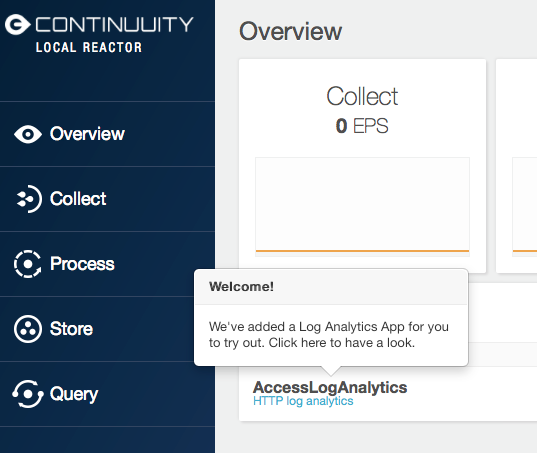
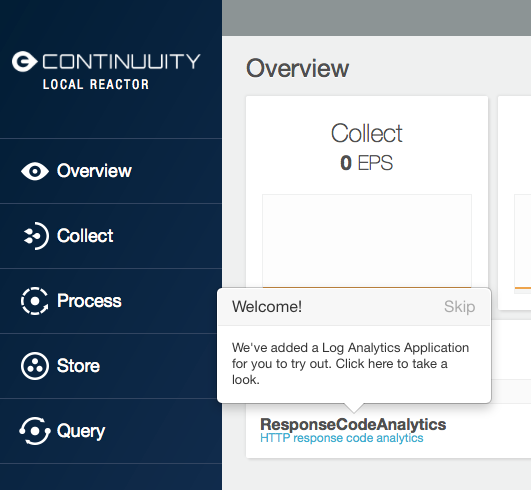
Updated graphic, removed extra /es, fixed names references in quickstart

diff --git a/docs/developer-guide/source/quickstart.rst b/docs/developer-guide/source/quickstart.rst
@@ -24,7 +24,7 @@ The example code for the *AccessLogApp* that we'll be using is located in ``/exa
 
 Step 1 : Installation and Startup
 ---------------------------------
-Download and unpack the SDK from `Continuuity.com <http://continuuity.com/download>`_.
+Download and unpack the SDK from `Continuuity.com </download>`_.
 
 Start the Reactor from a command line in the SDK directory::
 
@@ -47,12 +47,12 @@ When you first open the Dashboard, you'll be greeted with:
 .. image:: doc-assets/_images/quickstart/overview.png
    :width: 400px
 
-Click on the name of the application (**AccessLogAnalytics**) to view the running App. The App has each
+Click on the name of the application (**ResponseCodeAnalytics**) to view the running App. The App has each
 of the Reactor's components:
 
 	* Collect: the *logEventStream* Stream
 	* Process: the *LogAnalyticsFlow* Flow
-	* Store: the *statusCodesTable* Table
+	* Store: the *statusCodeTable* Table
 	* Query: the *StatusCodeProcedure* Procedure
 
 Notice that Collect and Store elements are named using "camel-case", 
@@ -92,7 +92,7 @@ We'll update the code, stop the App, redeploy it, restart its Flow and Procedure
 and inject additional events. We'll test our modifications to the Procedure to see new statistics.
 
 To build the example, we've included a `maven <http://maven.apache.org>`_ file. It's located in
-the App's source code directory (``/examples/LogAnalytics``). Run (from within the source
+the App's source code directory (``/examples/ResponseCodeAnalytics``). Run (from within the source
 code directory) the command::
 
 	mvn clean package
@@ -102,7 +102,7 @@ to build the .JAR file for deploying the application.
 (On Windows, `these instructions <http://maven.apache.org/guides/getting-started/windows-prerequisites.html>`__
 may help with problems using maven.)
 
-Open the source file (*AccessLogApp.java*) in your preferred editor, 
+Open the source file (*ResponseCodeAnalyticsApp.java*) in your preferred editor, 
 and make the following changes.
 
 After the line ``private OutputEmitter<Integer> output;``, insert this code::
@@ -123,9 +123,9 @@ After the line ``output.emit(Integer.parseInt(matcher.group(6)));``, insert::
 This will implement the emitter *clientIps* and send the client IP address to the
 downstream Flowlet.
 
-After the line ``statusCodes.increment(AccessLogApp.ROW_KEY, Bytes.toBytes(status), 1L);``, insert::
+After the line ``statusCodes.increment(ResponseCodeAnalyticsApp.ROW_KEY, Bytes.toBytes(status), 1L);``, insert::
 
-      statusCodes.increment(AccessLogApp.ROW_KEY, Bytes.toBytes(status), 1L);
+      statusCodes.increment(ResponseCodeAnalyticsApp.ROW_KEY, Bytes.toBytes(status), 1L);
     }
 
     // Annotation indicates that this method can process incoming data
@@ -161,17 +161,16 @@ After the line ``responder.sendJson(statusCountMap);``, insert::
 
 This adds a new ``getClientIPCounts`` method that will query the DataSet (storage) for the IP address occurrences.
 
-After you make your code changes to *AccessLogApp.java*, you can build the .JAR file by running::
+After you make your code changes to *ResponseCodeAnalyticsApp.java*, you can build the .JAR file by running::
 
 	mvn clean package
 
 Step 6: Redeploy and Restart
 ----------------------------
-We now need to stop the existing App. Bring up the App's Overview (by clicking on the *Overview* button in 
-the left sidebar, and selecting the App's name from the list, or by clicking on the App name
-*AccessLogAnalytics*, if it is in the top title bar, if you are in an Element Detail), and click
-the **Stop** buttons on the right side of the *Process* and *Query* sections. This will stop all Flows and
-Procedures.
+We now need to stop the existing App. Bring up the App's Overview (by clicking on the
+*Overview* button in  the left sidebar, and selecting the App's name from the list, or by clicking on the App name *ResponseCodeAnalytics*, if it is in the top title bar,
+if you are in an Element Detail), and click the **Stop** buttons on the right side of the
+*Process* and *Query* sections. This will stop all Flows and Procedures.
 
 Now, redeploy the App. Return to the Reactor Overview (via the *Overview* button) and click the
 *Load An App* button. Browse for the .JAR file, and select it. The App will be deployed.

diff --git a/docs/developer-guide/source/examples/index.rst b/docs/developer-guide/source/examples/index.rst
@@ -66,13 +66,13 @@ Where to Go Next
 ================
 Now that you've seen some examples using Continuuity Reactor, take a look at:
 
-- `Introduction to Continuuity Reactor </developers//intro>`__,
+- `Introduction to Continuuity Reactor </developers/intro>`__,
   an introduction to Big Data and the Continuuity Reactor;
-- `Continuuity Reactor Programming Guide </developers//programming>`__,
+- `Continuuity Reactor Programming Guide </developers/programming>`__,
   an introduction to programming applications for the Continuuity Reactor;
-- `Continuuity Reactor HTTP REST API </developers//rest>`__,
+- `Continuuity Reactor HTTP REST API </developers/rest>`__,
   a guide to programming Continuuity Reactor's HTTP interface;
-- `Operating a Continuuity Reactor </developers//operations>`__,
+- `Operating a Continuuity Reactor </developers/operations>`__,
   which covers putting Continuuity Reactor into production; and
 - `Advanced Continuuity Reactor Features </developers/advanced>`__,
   with details of the Flow, DataSet and Transaction systems.
